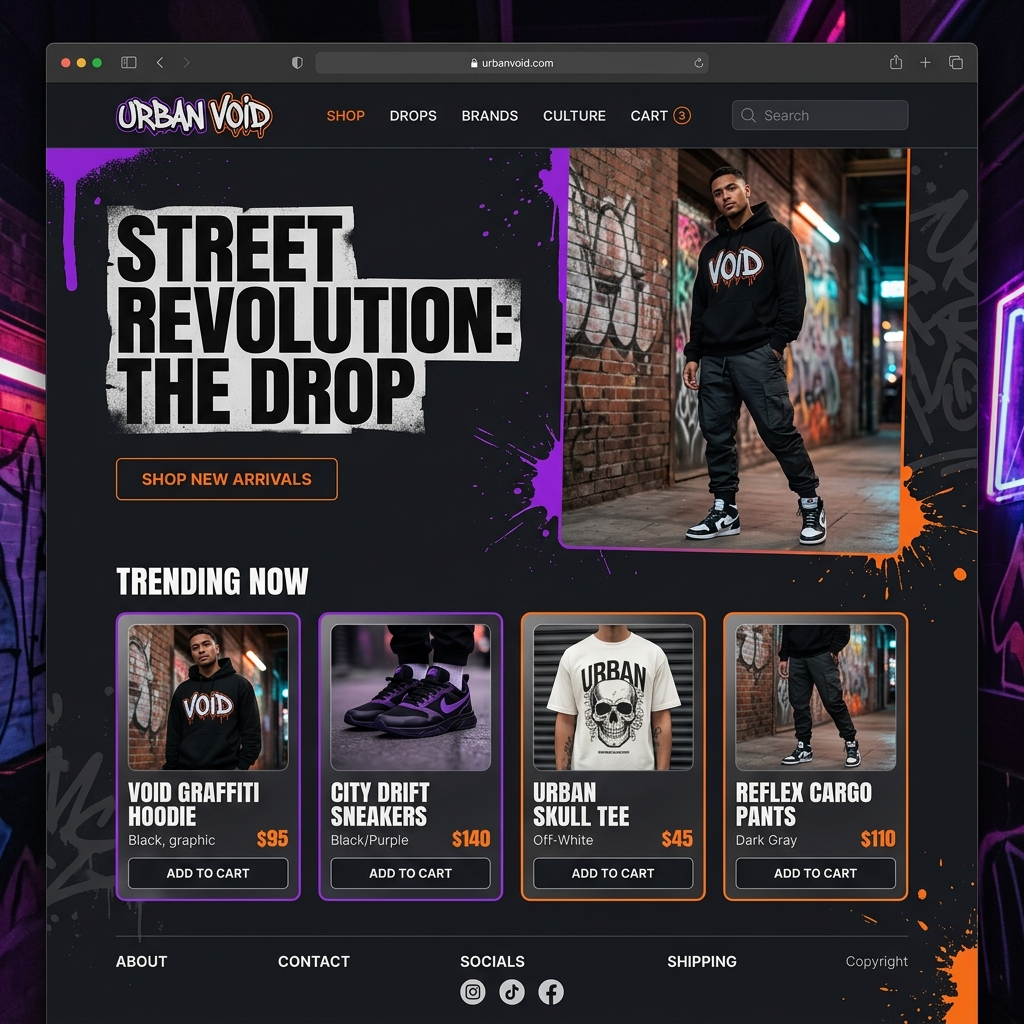
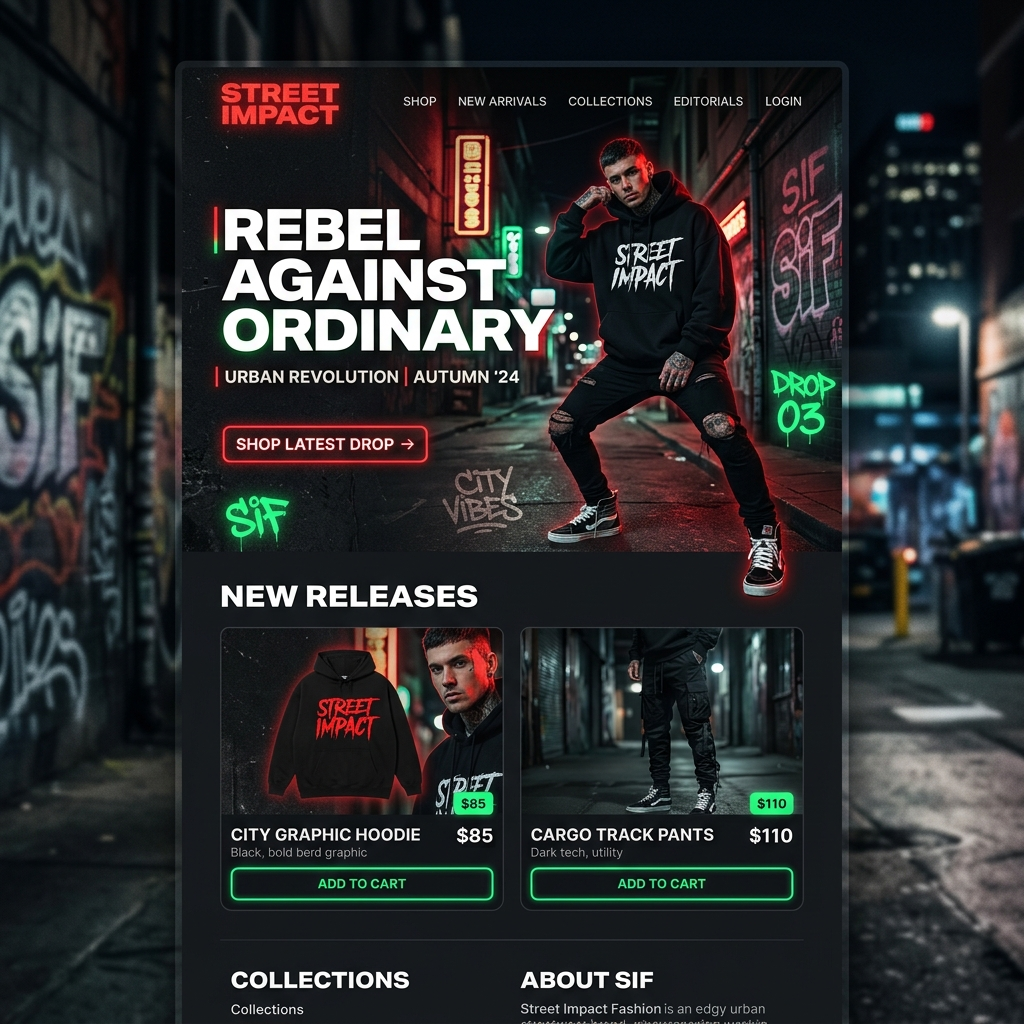
260502 1926

diff --git a/components/Projects.tsx b/components/Projects.tsx
@@ -7,6 +7,21 @@ interface ProjectsProps {
     onBackClick: () => void;
 }
 
+const getGradient = (idx: number) => {
+    const gradients = [
+        'from-blue-600 to-purple-600',
+        'from-pink-500 to-rose-500',
+        'from-emerald-500 to-cyan-600',
+        'from-amber-500 to-orange-600',
+        'from-indigo-600 to-blue-600',
+        'from-fuchsia-600 to-pink-600',
+        'from-violet-600 to-purple-600',
+        'from-teal-500 to-emerald-600',
+        'from-gray-700 to-slate-900',
+    ];
+    return gradients[idx % gradients.length];
+};
+
 const Projects: React.FC<ProjectsProps> = ({ projects, onBackClick }) => {
     return (
         <div className="min-h-screen py-24 scroll-mt-28">
@@ -44,26 +59,41 @@ const Projects: React.FC<ProjectsProps> = ({ projects, onBackClick }) => {
                             rel="noopener noreferrer"
                             className="relative group rounded-3xl bg-neu-base shadow-neu overflow-hidden aspect-[4/3] cursor-pointer hover:shadow-neu-pressed transition-all duration-300 block"
                         >
-                            {/* Image Background */}
-                            <div className="absolute inset-0">
-                                <img
-                                    src={project.image}
-                                    alt={project.title}
-                                    className="w-full h-full object-cover transition-all duration-700 group-hover:scale-110 group-hover:opacity-80"
-                                />
-                                {/* Overlay for text legibility */}
-                                <div className="absolute inset-0 bg-gradient-to-t from-black/80 via-black/20 to-transparent opacity-80 group-hover:opacity-70 transition-opacity duration-300"></div>
-                            </div>
+                            {/* Conditional Poster Background */}
+                            {['Cosplay Store', 'Street Impact Fashion', 'Velocity Digital'].includes(project.title) ? (
+                                <div className="absolute inset-0">
+                                    <img
+                                        src={project.image}
+                                        alt={project.title}
+                                        className="w-full h-full object-cover transition-all duration-700 group-hover:scale-110 group-hover:opacity-80"
+                                    />
+                                </div>
+                            ) : (
+                                <div className={`absolute inset-0 bg-gradient-to-br ${getGradient(idx)} p-8 flex flex-col justify-center items-center text-center transition-all duration-700 group-hover:scale-105`}>
+                                    {/* Decorative elements */}
+                                    <div className="absolute top-0 right-0 w-32 h-32 bg-white/10 rounded-full blur-2xl -translate-y-1/2 translate-x-1/2"></div>
+                                    <div className="absolute bottom-0 left-0 w-40 h-40 bg-black/10 rounded-full blur-2xl translate-y-1/3 -translate-x-1/3"></div>
+                                    
[1 lines of base64/hex data omitted]
 
-                            {/* Overlay Content */}
-                            <div className="absolute bottom-0 left-0 right-0 p-6 translate-y-2 group-hover:translate-y-0 transition-transform duration-300">
+                                    <h4 className="text-3xl md:text-4xl font-extrabold text-white mb-2 drop-shadow-md z-10 opacity-90 group-hover:opacity-100 transition-opacity leading-tight px-4">
+                                        {project.title}
+                                    </h4>
+                                    <div className="w-12 h-1 bg-white/50 rounded-full z-10 mt-4 group-hover:w-20 transition-all duration-300"></div>
+                                </div>
+                            )}
+                            
+                            {/* Dark Overlay on Hover for legibility of the bottom block */}
+                            <div className="absolute inset-0 bg-black/0 group-hover:bg-black/20 transition-colors duration-300 z-10"></div>
+
+                            {/* Bottom Info Block */}
+                            <div className="absolute bottom-0 left-0 right-0 p-6 translate-y-4 opacity-0 group-hover:opacity-100 group-hover:translate-y-0 transition-all duration-300 z-20">
                                 <div className="bg-white/10 backdrop-blur-md p-4 rounded-2xl border border-white/20 shadow-lg flex justify-between items-center hover:bg-white/20 transition-colors">
                                     <div>
-                                        <h3 className="text-lg font-bold text-white mb-1 drop-shadow-md">{project.title}</h3>
-                                        <p className="text-white/80 text-xs font-medium uppercase tracking-wider">{project.cat}</p>
+                                        <p className="text-white/90 text-sm font-semibold uppercase tracking-wider">{project.cat}</p>
                                     </div>
-                                    <div className="bg-white/20 p-2 rounded-full text-white hover:bg-blue-500 hover:text-white transition-all">
-                                        <ExternalLink size={16} />
+                                    <div className="bg-white/20 p-3 rounded-full text-white group-hover:bg-blue-500 transition-all">
+                                        <ExternalLink size={18} />
                                     </div>
                                 </div>
                             </div>

diff --git a/App.tsx b/App.tsx
@@ -6,7 +6,6 @@ import { SectionId, ProjectItem } from './types';
 
 // Lazy load heavy components
 const ChatBot = lazy(() => import('./components/ChatBot'));
-const ProjectCarousel = lazy(() => import('./components/ProjectCarousel'));
 
 // All projects data
 const ALL_PROJECTS: ProjectItem[] = [
@@ -323,9 +322,9 @@ const App: React.FC = () => {
 
         {/* HERO SECTION */}
         <section id={SectionId.HOME} className="min-h-screen flex items-center justify-center pt-20 relative scroll-mt-28">
-          <div className="container mx-auto px-6 grid grid-cols-1 lg:grid-cols-2 gap-12 items-center">
+          <div className="container mx-auto px-6 flex flex-col items-center text-center max-w-4xl">
 
-            <div className="space-y-8 animate-in slide-in-from-left duration-1000 z-20">
+            <div className="space-y-8 animate-in slide-in-from-left duration-1000 z-20 flex flex-col items-center">
               <div className="inline-block px-4 py-2 rounded-full shadow-neu-pressed bg-neu-base text-blue-500 font-semibold text-sm">
                 👋 Freelance Web Designer & Developer
               </div>
@@ -335,34 +334,13 @@ const App: React.FC = () => {
                   Hiện Thực Số
                 </span>
               </h1>
-              <p className="text-lg text-gray-500 max-w-lg leading-relaxed">
-                Tôi tạo ra những trải nghiệm web độc đáo với phong cách Neumorphism hiện đại và hiệu ứng 3D sống động, giúp thương hiệu của bạn nổi bật.
+              <p className="text-lg text-gray-500 max-w-2xl leading-relaxed mx-auto">
+                Tôi tạo ra những trải nghiệm web độc đáo với phong cách Neumorphism hiện đại và hiệu ứng UI/UX sống động, giúp thương hiệu của bạn nổi bật.
               </p>
-              <div className="flex flex-wrap gap-4">
-                <NeuButton onClick={() => scrollTo(SectionId.PROJECTS)} className="text-blue-600">Xem dự án</NeuButton>
-                <NeuButton variant="secondary" onClick={() => scrollTo(SectionId.CONTACT)}>Liên hệ tôi</NeuButton>
+              <div className="flex flex-wrap justify-center gap-6 mt-4">
+                <NeuButton onClick={() => scrollTo(SectionId.PROJECTS)} className="text-blue-600 !px-8 !py-4 font-bold text-lg">Khám phá Dự án</NeuButton>
+                <NeuButton variant="secondary" onClick={() => scrollTo(SectionId.CONTACT)} className="!px-8 !py-4 font-bold text-lg text-gray-600">Liên hệ ngay</NeuButton>
               </div>
-            </div>
-
-            {/* 3D Floating Element - Three.js Scene */}
-            <div className="relative hidden lg:flex flex-col justify-center items-center w-full max-w-[800px] mx-auto space-y-6">
-              <div className="h-[600px] w-full relative">
-                <Suspense fallback={<div className="w-full h-full flex items-center justify-center text-gray-400">Loading 3D Scene...</div>}>
-                  <ProjectCarousel projects={ALL_PROJECTS.slice(0, 6)} />
-                </Suspense>
-
-                {/* Decorative Background for 3D */}
-                <div className="absolute inset-0 bg-gradient-to-tr from-blue-500/10 to-purple-500/10 blur-[80px] rounded-full -z-10"></div>
-              </div>
-
-              {/* View All Projects Button */}
-              <NeuButton
-                onClick={() => scrollTo(SectionId.PROJECTS)}
-                className="!px-8 !py-3 text-purple-600 font-semibold flex items-center gap-2"
-              >
-                Xem toàn bộ dự án
-                <ExternalLink size={18} />
-              </NeuButton>
             </div>
 
           </div>

diff --git a/index.html b/index.html
@@ -13,6 +13,11 @@
     <meta property="og:title" content="CreativeFlow - Thiết Kế Web Freelance & Giải Pháp Số">
     <meta property="og:description"
         content="Chuyên thiết kế website Neumorphism, phát triển ứng dụng web và giải pháp số sáng tạo.">
+    
+    <link rel="preconnect" href="https://fonts.googleapis.com">
+    <link rel="preconnect" href="https://fonts.gstatic.com" crossorigin>
+    <link href="https://fonts.googleapis.com/css2?family=Be+Vietnam+Pro:wght@300;400;500;600;700;800&display=swap" rel="stylesheet">
+    
     <link rel="stylesheet" href="/index.css">
     <style>
         /* Custom Scrollbar for the right panel */

diff --git a/index.css b/index.css
@@ -5,5 +5,5 @@
 
 body {
   margin: 0;
-  font-family: 'Inter', sans-serif;
+  font-family: 'Be Vietnam Pro', sans-serif;
 }

diff --git a/tailwind.config.js b/tailwind.config.js
@@ -9,7 +9,7 @@ export default {
     theme: {
         extend: {
             fontFamily: {
-                sans: ['Inter', 'sans-serif'],
+                sans: ['"Be Vietnam Pro"', 'sans-serif'],
             },
             colors: {
                 neu: {